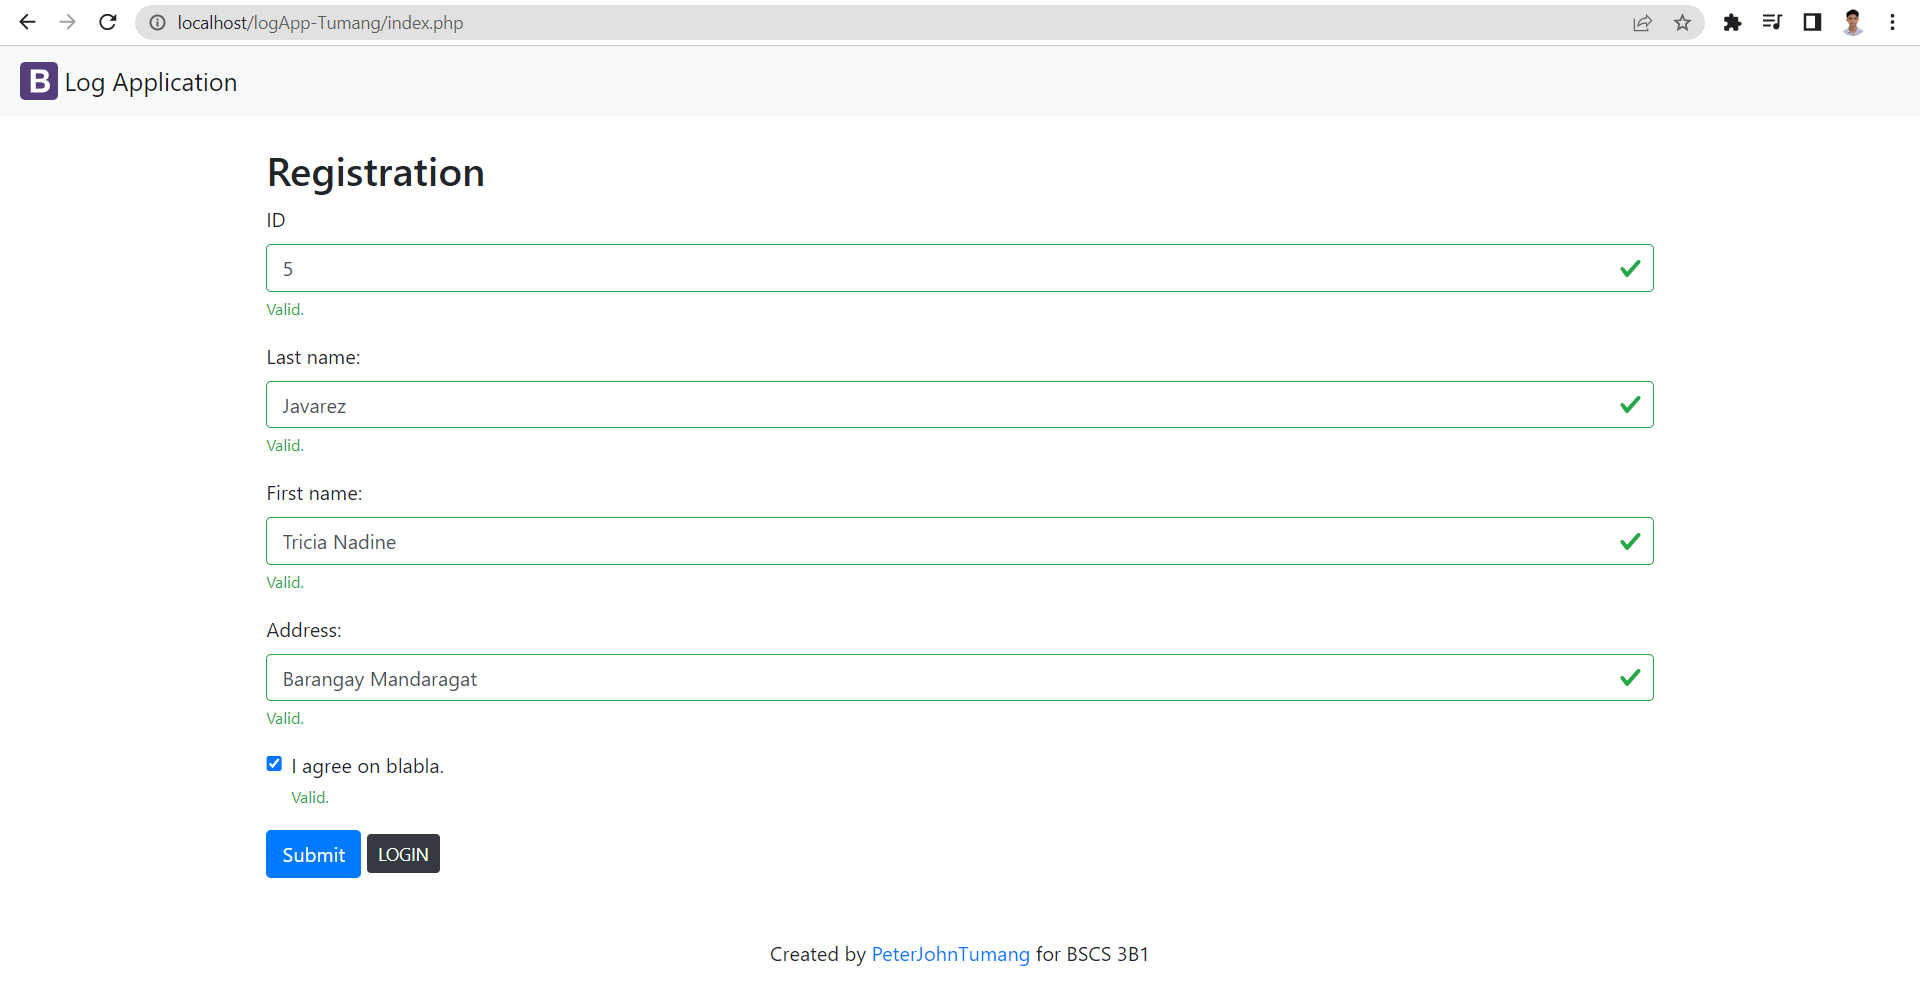
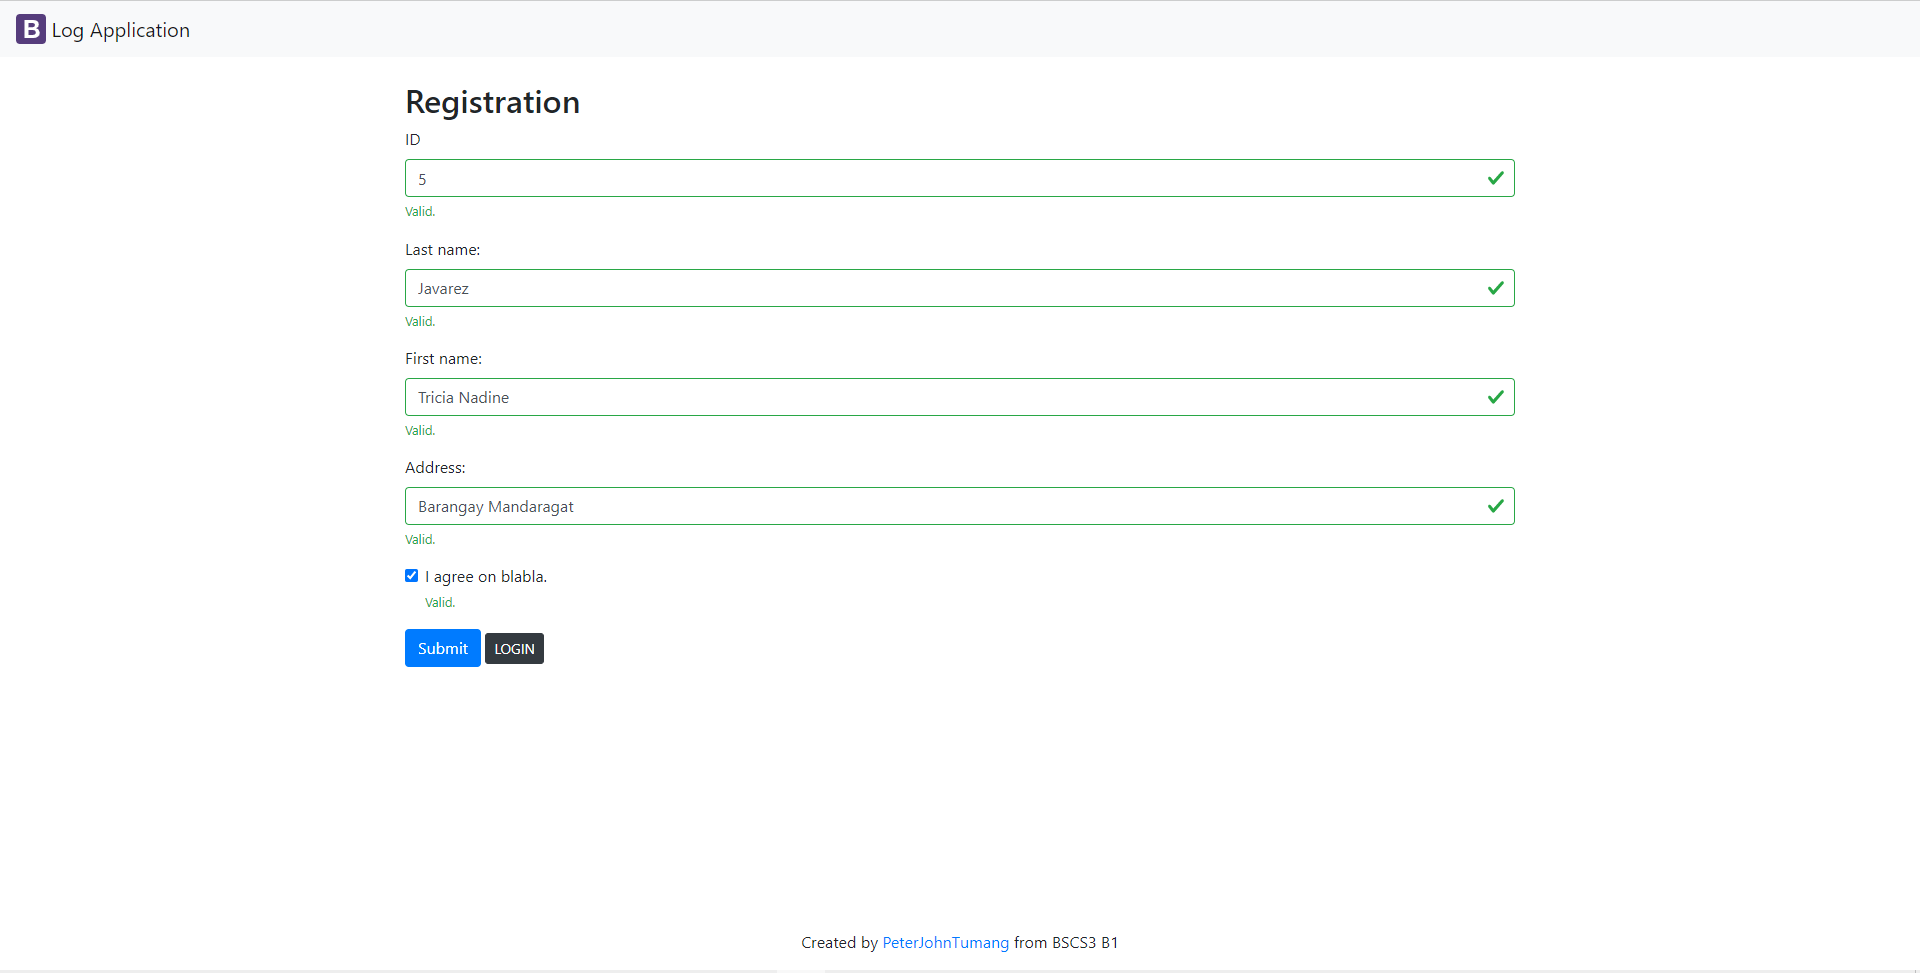
week 10 done again

diff --git a/index.php b/index.php
@@ -10,7 +10,7 @@
 		$fname = mysqli_real_escape_string($conn,$_POST['fname']);
 		$address = mysqli_real_escape_string($conn,$_POST['address']);
 
-		$query = "INSERT INTO person(pid,lastname, firstname,address,logdt) VALUES('$pid','$lname', '$fname', '$address', now())";
+		$query = "INSERT INTO PERSON(pid,lastname, firstname,address,logdt) VALUES('$pid','$lname', '$fname', '$address', now())";
 
 		if(mysqli_query($conn, $query)){
       header('Location: index.php');
@@ -23,43 +23,44 @@
 
 <?php include('inc/header.php'); ?>
 <div class="container">
-<br/>
-  <h2>Registration</h2>
+    <br />
+    <h2>Registration</h2>
 
-  <form method="POST" action="<?php $_SERVER['PHP_SELF']; ?>" class="was-validated">
-  <div class="form-group">
-      <label for="uname">ID</label>
-      <input type="text" class="form-control" id="pid" placeholder="Enter ID" name="pid" required>
-      <div class="valid-feedback">Valid.</div>
-      <div class="invalid-feedback">Please fill out this field.</div>
-    </div>
-    <div class="form-group">
-      <label for="uname">Last name:</label>
-      <input type="text" class="form-control" id="lname" placeholder="Enter last name" name="lname" required>
-      <div class="valid-feedback">Valid.</div>
-      <div class="invalid-feedback">Please fill out this field.</div>
-    </div>
-    <div class="form-group">
-      <label for="uname">First name:</label>
-      <input type="text" class="form-control" id="fname" placeholder="Enter first name" name="fname" required>
-      <div class="valid-feedback">Valid.</div>
-      <div class="invalid-feedback">Please fill out this field.</div>
-    </div>
-    <div class="form-group">
-      <label for="uname">Address:</label>
-      <input type="text" class="form-control" id="address" placeholder="Enter address" name="address" required>
-      <div class="valid-feedback">Valid.</div>
-      <div class="invalid-feedback">Please fill out this field.</div>
-    </div>
-    <div class="form-group form-check">
-      <label class="form-check-label">
-        <input class="form-check-input" type="checkbox" name="remember" required> I agree on blabla.
-        <div class="valid-feedback">Valid.</div>
-        <div class="invalid-feedback">Check this checkbox to continue.</div>
-      </label>
-    </div>
-    <button type="submit" name="submit" value="Submit" class="btn btn-primary">Submit</button>
-    <button type="button" class="btn btn-dark btn-sm" onclick="document.location='guestbook-login.php'">LOGIN</button>
-  </form>
+    <form method="POST" action="<?php $_SERVER['PHP_SELF']; ?>" class="was-validated">
+        <div class="form-group">
+            <label for="uname">ID</label>
+            <input type="text" class="form-control" id="pid" placeholder="Enter ID" name="pid" required>
+            <div class="valid-feedback">Valid.</div>
+            <div class="invalid-feedback">Please fill out this field.</div>
+        </div>
+        <div class="form-group">
+            <label for="uname">Last name:</label>
+            <input type="text" class="form-control" id="lname" placeholder="Enter last name" name="lname" required>
+            <div class="valid-feedback">Valid.</div>
+            <div class="invalid-feedback">Please fill out this field.</div>
+        </div>
+        <div class="form-group">
+            <label for="uname">First name:</label>
+            <input type="text" class="form-control" id="fname" placeholder="Enter first name" name="fname" required>
+            <div class="valid-feedback">Valid.</div>
+            <div class="invalid-feedback">Please fill out this field.</div>
+        </div>
+        <div class="form-group">
+            <label for="uname">Address:</label>
+            <input type="text" class="form-control" id="address" placeholder="Enter address" name="address" required>
+            <div class="valid-feedback">Valid.</div>
+            <div class="invalid-feedback">Please fill out this field.</div>
+        </div>
+        <div class="form-group form-check">
+            <label class="form-check-label">
+                <input class="form-check-input" type="checkbox" name="remember" required> I agree on blabla.
+                <div class="valid-feedback">Valid.</div>
+                <div class="invalid-feedback">Check this checkbox to continue.</div>
+            </label>
+        </div>
+        <button type="submit" name="submit" value="Submit" class="btn btn-primary">Submit</button>
+        <button type="button" class="btn btn-dark btn-sm"
+            onclick="document.location='guestbook-login.php'">LOGIN</button>
+    </form>
 </div>
 <?php include('inc/footer.php'); ?>

diff --git a/guestbook-login.php b/guestbook-login.php
@@ -8,8 +8,7 @@
     $password = mysqli_real_escape_string($conn,$_POST['password']);
 
     if ($uname != "" && $password != ""){
-
-        $sql_query = "select count(*) as cntUser from useraccount where username='".$uname."' 
+        $sql_query = "select count(*) as cntUser from USERACCOUNT where username='".$uname."' 
         and password='".$password."'";
         $result = mysqli_query($conn,$sql_query);
         $row = mysqli_fetch_array($result);
@@ -21,37 +20,39 @@
             header('Location: guestbook-list.php');
         }
         else{
-
-          $_SESSION['message'] = "Invalid <b>username</b> or <b>password</b>!";
+          echo "Account does not exist!";
+          echo "<br>";
+          echo "Please try again!";
         }
     }
 
     else
     {
-       $_SESSION['message'] = "Please input <b>username</b> or <b>password</b>!";
+       echo "Please input username or password!";
     }
   }
 ?>
 
 <?php include('inc/header.php'); ?>
-  <br/>
-  <div style="width:30%; margin: auto; text-align: center;">
+<br />
+<div style="width:30%; margin: auto; text-align: center;">
     <form method="POST" action="<?php $_SERVER['PHP_SELF']; ?>" class="form-signin">
-      <img class="mb-4" src="img/bootstrap.svg" alt="" width="100" height="100">
-      <h1 class="h3 mb-3 font-weight-normal">Please sign in</h1>
-      <label for="inputEmail" class="sr-only">Username</label>
-      <input type="text" id="username" name="username" class="form-control" placeholder="Username" required="" autofocus="">
-      <br/><label for="inputPassword" class="sr-only">Password</label>
-      <input type="password" id="password" name="password" class="form-control" placeholder="Password" required="">
-      <div class="checkbox mb-3">
-        <label>
-          <input type="checkbox" value="remember-me"> Remember me
-        </label>
-      </div>
-      <button type="submit" name="submit" value="Submit" class="btn btn-lg btn-primary btn-block">Sign in</button>
-      <br>
-      <button type="button" class="btn btn-dark btn-sm" onclick="document.location='index.php'">Register</button>
+        <img class="mb-4" src="img/bootstrap.svg" alt="" width="100" height="100">
+        <h1 class="h3 mb-3 font-weight-normal">Please sign in</h1>
+        <label for="inputEmail" class="sr-only">Username</label>
+        <input type="text" id="username" name="username" class="form-control" placeholder="Username" required=""
+            autofocus="">
+        <br /><label for="inputPassword" class="sr-only">Password</label>
+        <input type="password" id="password" name="password" class="form-control" placeholder="Password" required="">
+        <div class="checkbox mb-3">
+            <label>
+                <input type="checkbox" value="remember-me"> Remember me
+            </label>
+        </div>
+        <button type="submit" name="submit" value="Submit" class="btn btn-lg btn-primary btn-block">Sign in</button>
+        <br>
+        <button type="button" class="btn btn-dark btn-sm" onclick="document.location='index.php'">Register</button>
 
     </form>
-  </div>
+</div>
 <?php include('inc/footer.php'); ?>

diff --git a/guestbook-list.php b/guestbook-list.php
@@ -3,7 +3,7 @@
     require('config/db.php');
 
     // Create Query
-    $query = 'SELECT * FROM person ORDER BY pid DESC';
+    $query = 'SELECT * FROM PERSON ORDER BY pid DESC';
 
     // Get Result
     $result = mysqli_query($conn, $query);
@@ -21,37 +21,37 @@
 ?>
 
 <?php include('inc/header.php'); ?>
-	<div class="container">
-    <br/>
-		<h2>Person's Log</h2>
-        <table class="table">
-                <thead class="thead-dark">
-                    <tr>
-                    <th scope="col">#</th>
-                    <th scope="col">Last Name</th>
-                    <th scope="col">First Name</th>
-                    <th scope="col">Address</th>
-                    <th scope="col">Log Date and Time</th>
-                    </tr>
-                </thead>
-		
-			<div class="well">
-                <tbody>
+<div class="container">
+    <br />
+    <h2>Person's Log</h2>
+    <table class="table">
+        <thead class="thead-dark">
+            <tr>
+                <th scope="col">#</th>
+                <th scope="col">Last Name</th>
+                <th scope="col">First Name</th>
+                <th scope="col">Address</th>
+                <th scope="col">Log Date and Time</th>
+            </tr>
+        </thead>
+
+        <div class="well">
+            <tbody>
                 <?php foreach($persons as $person) : ?>
-                    <tr>
+                <tr>
                     <th scope="row"><?php echo $person['pid'];?></th>
                     <td><?php echo $person['lastname'];?></td>
                     <td><?php echo $person['firstname'];?></td>
                     <td><?php echo $person['address'];?></td>
                     <td><?php echo $person['logdt'];?></td>
-                    </tr>
-                <?php endforeach; ?>   
-                </tbody>
-            </div>
-        </table>
-        <br/>
+                </tr>
+                <?php endforeach; ?>
+            </tbody>
+        </div>
+    </table>
+    <br />
 
-            <button type="button" class="btn btn-dark btn-sm" onclick="document.location='guestbook-login.php'">Logout</button>
-            <button type="button" class="btn btn-dark btn-sm" onclick="document.location='index.php'">Register</button>
+    <button type="button" class="btn btn-dark btn-sm" onclick="document.location='guestbook-login.php'">Logout</button>
+    <button type="button" class="btn btn-dark btn-sm" onclick="document.location='index.php'">Register</button>
 </div>
 <?php include('inc/footer.php'); ?>

diff --git a/inc/footer.php b/inc/footer.php
@@ -1,7 +1,8 @@
 <footer class="mastfoot mt-auto" style="text-align: center;">
     <div class="inner">
-      <p>Created by <a href="https://github.com/PeterJohnTumang">PeterJohnTumang</a> for BSCS 3B1</p>
+        <p>Created by <a href="https://github.com/PeterJohnTumang">PeterJohnTumang</a> from BSCS3 B1</p>
     </div>
 </footer>
-  </body>
+</body>
+
 </html>

diff --git a/config/config.php b/config/config.php
@@ -3,4 +3,4 @@
 	define('DB_HOST', 'localhost');
 	define('DB_USER', 'root');
 	define('DB_PASS', '112364');
-	define('DB_NAME', 'mydb');
+	define('DB_NAME', 'logapp');

diff --git a/README.md b/README.md
@@ -1,4 +1,4 @@
-##### :space_invader: This repo is from Practice Set 5-06
+##### : This repo is from Practice Set 5-06
 
 # logApp-scaling-octo
 
